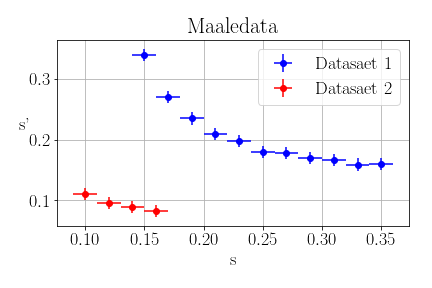
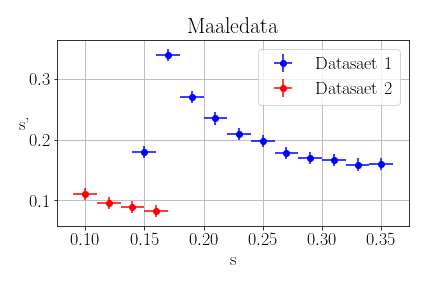
cake

Changed region(s): [[0.3611, 0.3125, 0.6319, 0.5625], [0.3009, 0.1562, 0.4213, 0.2188], [0.3009, 0.5, 0.3611, 0.5625]]

diff --git a/rapport2/E_Databehandling.tex b/rapport2/E_Databehandling.tex
@@ -1,14 +1,14 @@
 \section{Databehandling}
 \subsection{Afbildning med én samlelinse}
-I dette forsøg, ændres positionen for linsen hvorefter positionen af skærmens position ændres, så billedet igen står skarpt. Der ønskes altså at undersøge sammenhængen mellem \cref{eq:formel}.
-Vores resultater kan ses på
-\begin{table}[H]
-    \begin{tabular}{c|c|c|c|c|c|c|c|c|c|c}
-        58 &  64 &  59 &  57 &  57 &  57  & 59  & 61  & 62  & 63  & 66
-    \end{tabular}
+I dette forsøg, ændres positionen for linsen hvorefter positionen af skærmens position ændres, så billedet igen står skarpt. Der ønskes altså at undersøge sammenhængen mellem \cref{eq:formel}. Afstanden skiftes mens $s$ og $s'$ bestemmes så billedet står skarpt igen på skærmen.
+Vores resultater kan ses på \cref{fig:res1}.
+\begin{figure}[H]
+    \includegraphics[width=\linewidth]{res1.png}
     \caption{}
-    \label{}
-\end{table}
+    \label{fig:res1}
+\end{figure}
+
+
 \begin{figure}[H]
     \includegraphics[width=\linewidth]{usikkerhed.png}
     \caption{}

diff --git a/rapport2/hej.py b/rapport2/hej.py
@@ -32,8 +32,20 @@ s1 = lin1-I_0       # m - laengden s
 s_mark1 = I_r1-lin1 # m - laengden s'
 s2 = lin2-I_0       # m - laengden s
 s_mark2 = I_r2-lin2 # m - laengden s'
-
-
+# %% - - - - - - - -  - - - - - - - -
+s1 = np.sort(s1)
+# s_mark1 = np.sort(s_mark1)
+# s2 = np.sort(s2)
+# s_mark2 = np.sort(s_mark2)
+plt.figure()
+plt.title(r"$f = 10$")
+plt.plot(s1,s_mark1, 'b--')
+plt.xlabel(r"$s [m]$");
+plt.ylabel(r"$s' [m]$");
+plt.tight_layout()
+# plt.savefig("res1.png")
+plt.show()
+# %% - - - - - - - -  - - - - - - - -
 #- - - - - - - - - - - - - - - - - - - - - - usikkerheden paa maalingerne
 sds_x = pm_x
 
